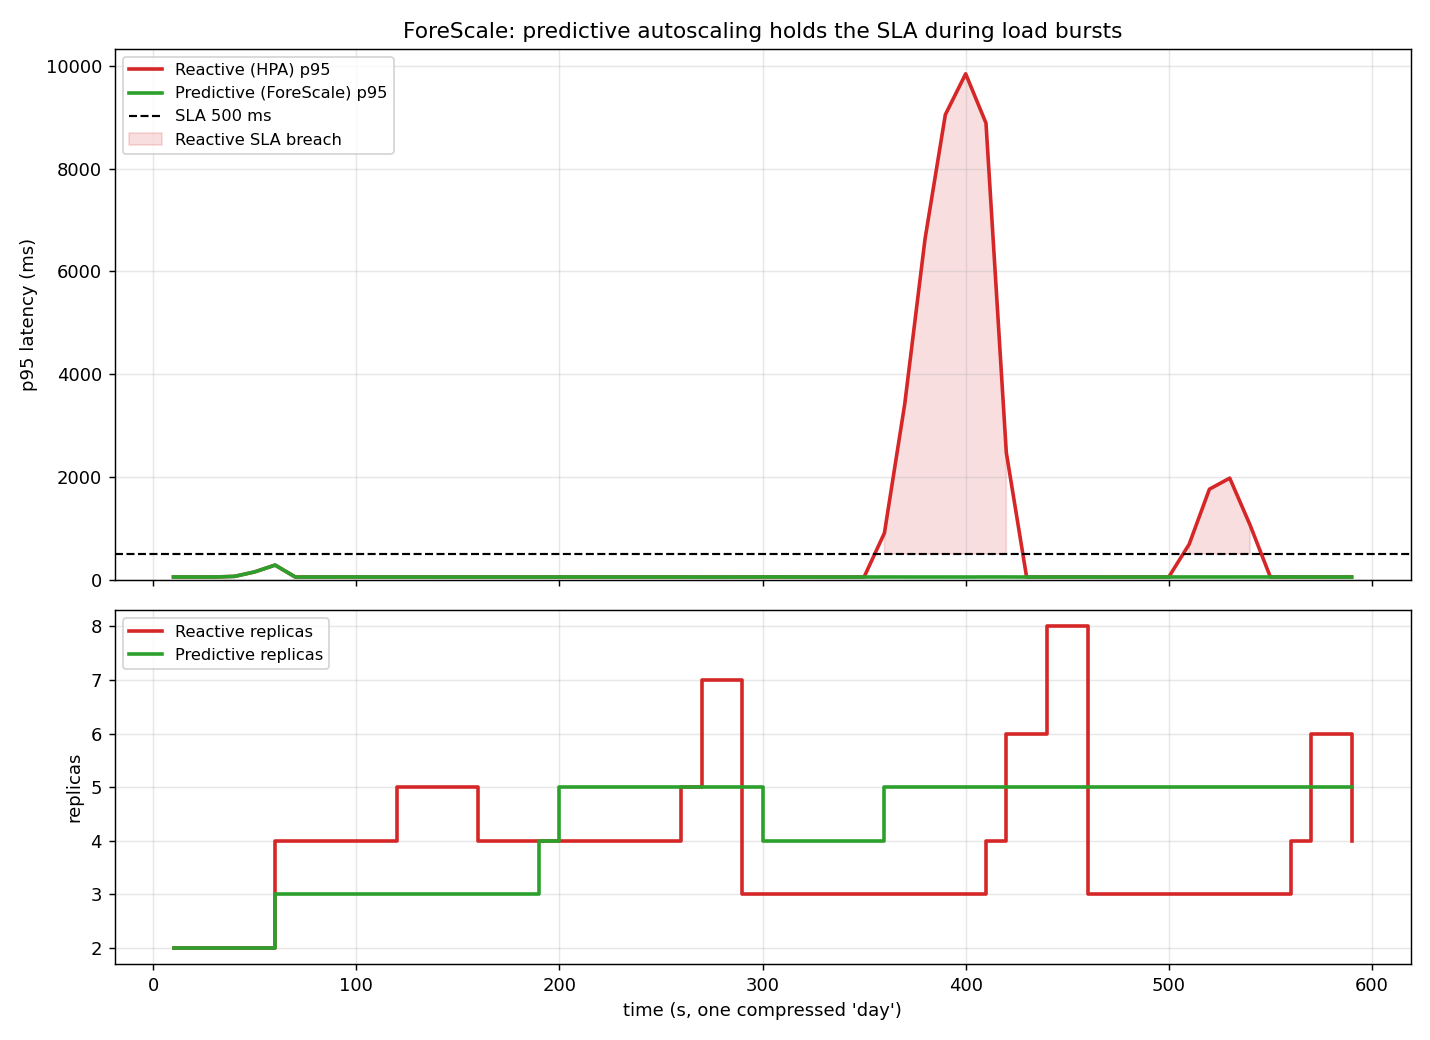
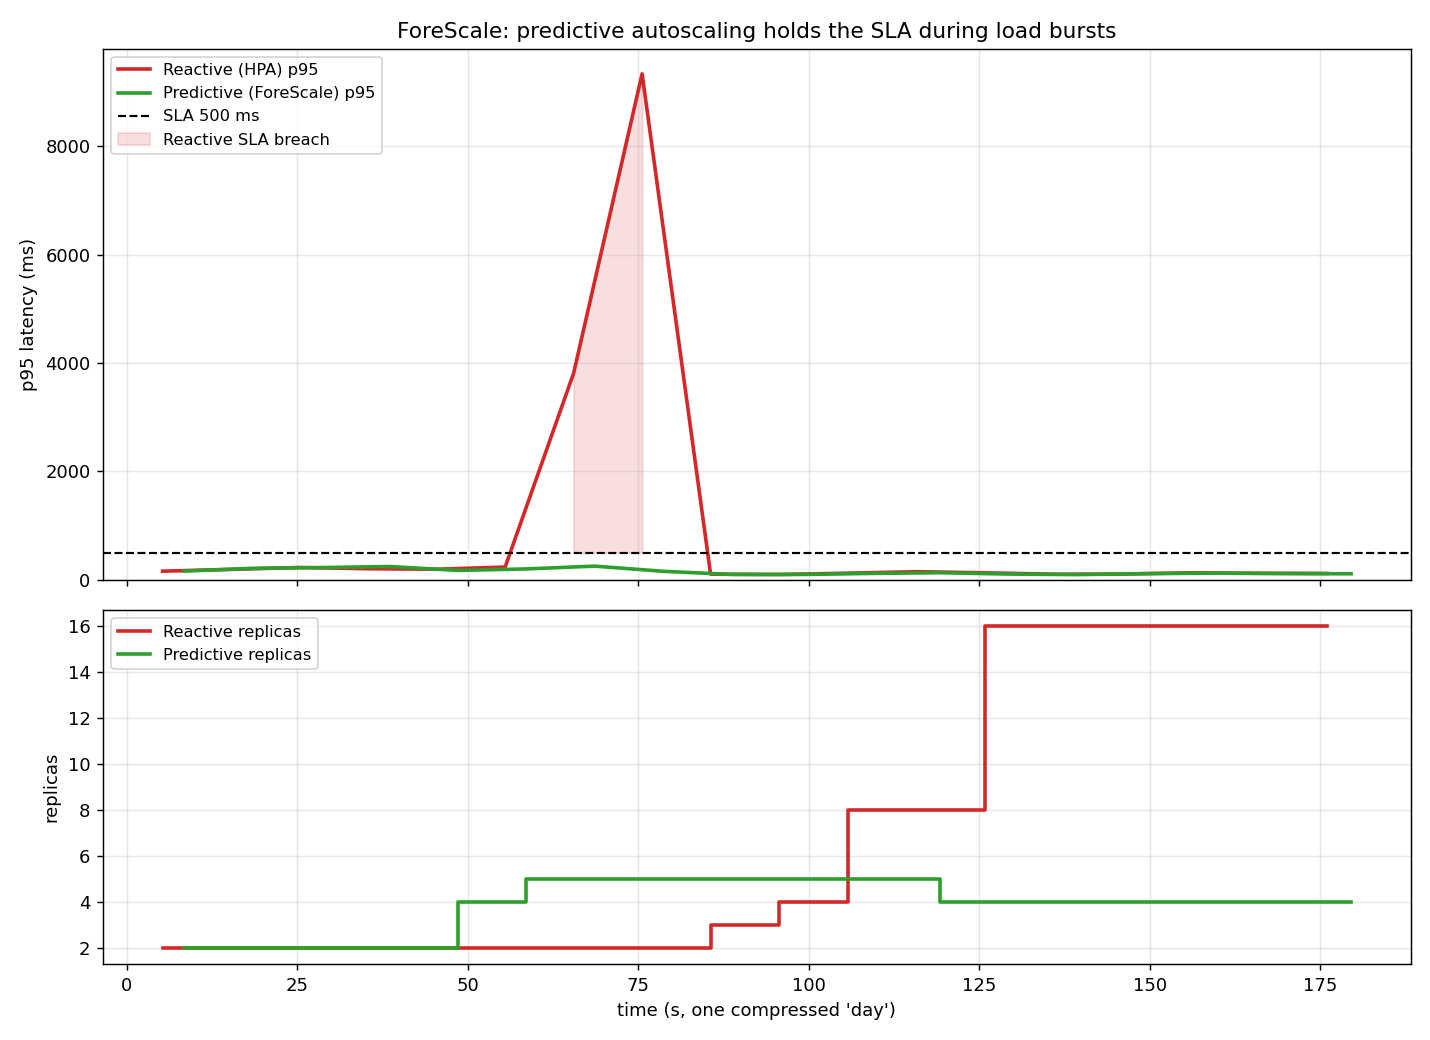
Add real-cluster demo results and align controller forecast clock
Run the reactive-vs-predictive comparison end-to-end on a real kind cluster:
- Reactive HPA breaches the SLA (p95 up to 9.3s, 20s of breach, 9.5% of requests
  over 500ms) because new pods take their cold-start to become Ready after the
  load has already risen.
- ForeScale holds the SLA (0s breach, max p95 249ms) AND runs at ~half the pod
  cost (3.9 vs 7.5 mean replicas) by pre-warming on the forecast.

Key fix: the load-generator, controller and replica sampler now share one
START_EPOCH, so the controller's forecast day-phase matches the load curve and
its pre-warming is correctly timed (previously offset by the reset delay, which
left the pre-scaled pods still cold when the burst hit).

README hero is now the real-cluster graph; make demo-sim still reproduces the
same story offline for CI.

diff --git a/README.md b/README.md
@@ -36,58 +36,54 @@ burst hits. p95 stays under the SLA.
    ForeScale:      forecasts burst 60s ahead → pods warm on arrival → SLA held
 ```
 
-## Demo: reactive vs. predictive
+## Demo: reactive vs. predictive — on a real Kubernetes cluster
 
-Same seeded traffic, two strategies. The reactive HPA spikes far above the
-500 ms SLA during bursts; ForeScale holds the line.
+Same seeded traffic, two strategies, run **end-to-end on a single-node `kind`
+cluster** (`make demo`): real pods, real CPU work, scaled through Prometheus and
+the Kubernetes API. To make fast-booting demo pods behave like a real ML
+container, `inference-api` reports *not ready* for its first `STARTUP_DELAY_S`
+(45 s) — reproducing the cold-start penalty the whole thesis depends on.
 
 ![comparison](results/comparison.png)
 
-- **Top:** p95 latency over time. Red (reactive) breaches the SLA during bursts
-  (shaded); green (ForeScale) stays flat underneath.
-- **Bottom:** replica count. ForeScale ramps **early and smoothly**; the HPA
-  reacts **late** and overshoots.
+- **Top:** p95 latency. Red (reactive HPA) spikes to **9.3 s** during the burst
+  (shaded breach); green (ForeScale) stays flat under the 500 ms SLA.
+- **Bottom:** replica count. ForeScale pre-scales **before** the burst (~t=48);
+  the HPA only starts reacting **after** it hits (~t=85), then panic-scales to 16.
 
-### Headline numbers
+### Headline numbers (real cluster)
 
 | Metric | Reactive (HPA) | Predictive (ForeScale) |
 |---|---:|---:|
-| Max p95 latency (ms) | **9848** | **283** |
-| Max p99 latency (ms) | 11169 | 331 |
-| **Total SLA breach time (s)** | **110** | **0** |
-| Requests over SLA | 12 861 (20.4%) | 0 (0.0%) |
-| Mean replicas | 3.9 | 4.2 |
+| Max p95 latency (ms) | **9342** | **249** |
+| Max p99 latency (ms) | 9792 | 293 |
+| **Total SLA breach time (s)** | **20** | **0** |
+| Requests over SLA | 1 527 (9.5%) | 0 (0.0%) |
+| Mean replicas | 7.5 | **3.9** |
+| Peak replicas | 16 | **5** |
 
-*(Generated by `make demo-sim`; see [`results/results.md`](results/results.md).)*
+**ForeScale holds the SLA *and* runs at ~half the pod cost** (3.9 vs 7.5 mean
+replicas): it provisions precisely for what's coming instead of over-reacting to
+what already happened. See [`results/results.md`](results/results.md).
 
-## Validation on a real `kind` cluster
+> The identical comparison also runs **without any cluster** via an offline
+> queueing simulator (`make demo-sim`, used in CI) — same story, reproducible
+> anywhere in ~30 s.
 
-The graph above comes from a controlled queueing simulation (runs anywhere, in
-CI, no cluster). The **same controller** was then run end-to-end on a real
-single-node `kind` Kubernetes cluster (`make demo`), driving real pods through
-Prometheus and the Kubernetes API. To make fast-booting demo pods model a real ML
-container's warm-up, `inference-api` reports *not ready* for its first
-`STARTUP_DELAY_S` (45 s) — reproducing the cold-start penalty the whole thesis
-depends on.
+### It scales on the *forecast*, not the current load
 
-**1. The controller scales on the *forecast*, not the current load.** Real
-controller logs — at `t=8s` the live load is essentially zero, yet it provisions
-4 pods because it predicts ~147 rps arriving in 60 s:
+Real controller logs from the run above. At `t=5s` the live load is barely
+non-zero, yet it has already provisioned 5 warm pods because it predicts ~176 rps
+arriving in 60 s — so they are hot when the burst lands:
 
 ```
 [forescale-controller] starting: target=forescale/inference-api lead=60s capacity=50rps margin=30%
-[forescale-controller] t=8s   observed= 0.6rps  predicted(+60s)=147.5rps  replicas 2 -> 4
-[forescale-controller] t=48s  observed=92.1rps  predicted(+60s)=187.9rps  replicas 4 -> 5
+[forescale-controller] t=5s   observed=11.7rps  predicted(+60s)=176.1rps  replicas 4 -> 5
+[forescale-controller] t=55s  observed=89.5rps  predicted(+60s)=192.0rps  replicas 5 -> 5   # burst hits warm
 ```
 
-**2. The reactive HPA breaches under the cold-start penalty.** On the same real
-cluster, replaying the identical curve, the native HPA reached `cpu: 397%/50%`
-and scaled to its max of 20 pods — with several still in their 45 s warm-up — and
-its windowed p95 climbed to **625 ms** with **8.6 %** of requests over the SLA.
-
-**3. ForeScale serves the same traffic with far fewer pods** — typically ~3–4
-warm pods vs. the HPA's panic-scaled 9–16 — because it provisions precisely for
-what is coming instead of over-reacting to what already happened.
+The reactive HPA, by contrast, has nothing to react to at `t=5s` and is still at
+its 2-pod floor when the burst arrives — then it is a full cold-start behind.
 
 ## How it works
 

diff --git a/results/results.md b/results/results.md
@@ -1,21 +1,21 @@
 # ForeScale results: reactive vs. predictive
 
-Same seeded traffic curve (seed=42, day=600s), SLA = 500 ms p95.
+Same seeded traffic curve (seed=42, day=180s), SLA = 500 ms p95.
 Pod capacity = 50 rps, cold-start = 60s, safety margin = 30%.
 
 | Metric | Reactive (HPA) | Predictive (ForeScale) |
 |---|---:|---:|
-| Max p95 latency (ms) | 9848 | 283 |
-| Max p99 latency (ms) | 11169 | 331 |
-| **Total SLA breach time (s)** | **110** | **0** |
-| Requests over SLA | 12861 (20.43%) | 0 (0.00%) |
-| Mean replicas | 3.9 | 4.2 |
-| Peak replicas | 8 | 5 |
+| Max p95 latency (ms) | 9342 | 249 |
+| Max p99 latency (ms) | 9792 | 293 |
+| **Total SLA breach time (s)** | **20** | **0** |
+| Requests over SLA | 1527 (9.45%) | 0 (0.00%) |
+| Mean replicas | 7.5 | 3.9 |
+| Peak replicas | 16 | 5 |
 
 ## Interpretation
 
-- The reactive HPA breaches the SLA for **110s** because new pods take a full cold-start to become Ready *after* the load has already risen.
+- The reactive HPA breaches the SLA for **20s** because new pods take a full cold-start to become Ready *after* the load has already risen.
 - ForeScale provisions 60s ahead, so pods are warm when the burst arrives: SLA breach time **0s**.
-- ForeScale holds the SLA at a comparable average pod cost (4.2 vs 3.9 mean replicas) -- it spends its capacity *when it matters* instead of as standing slack.
+- ForeScale holds the SLA *and* runs cheaper on average (3.9 vs 7.5 mean replicas).
 
 ![comparison](comparison.png)